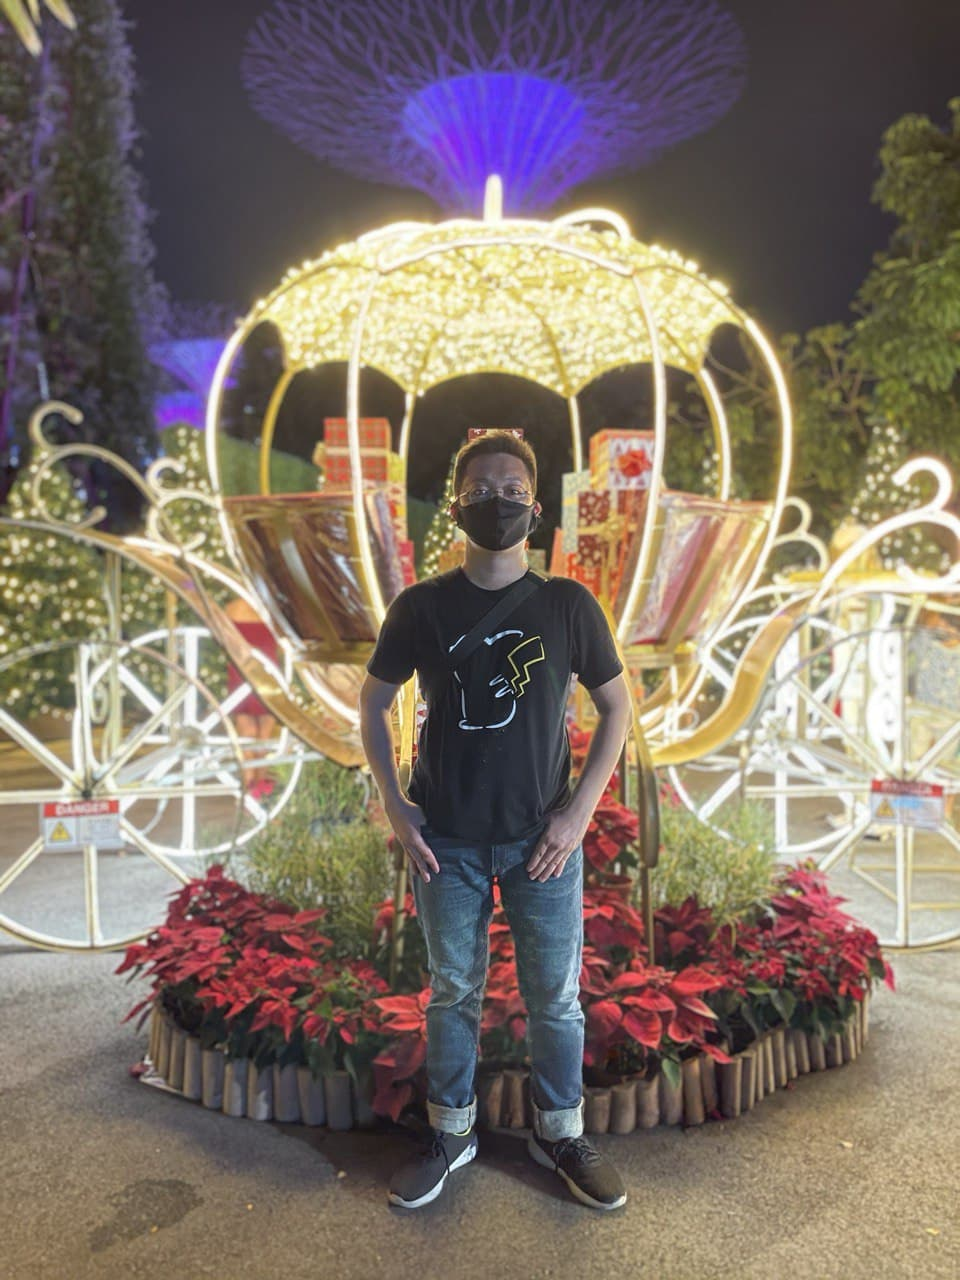
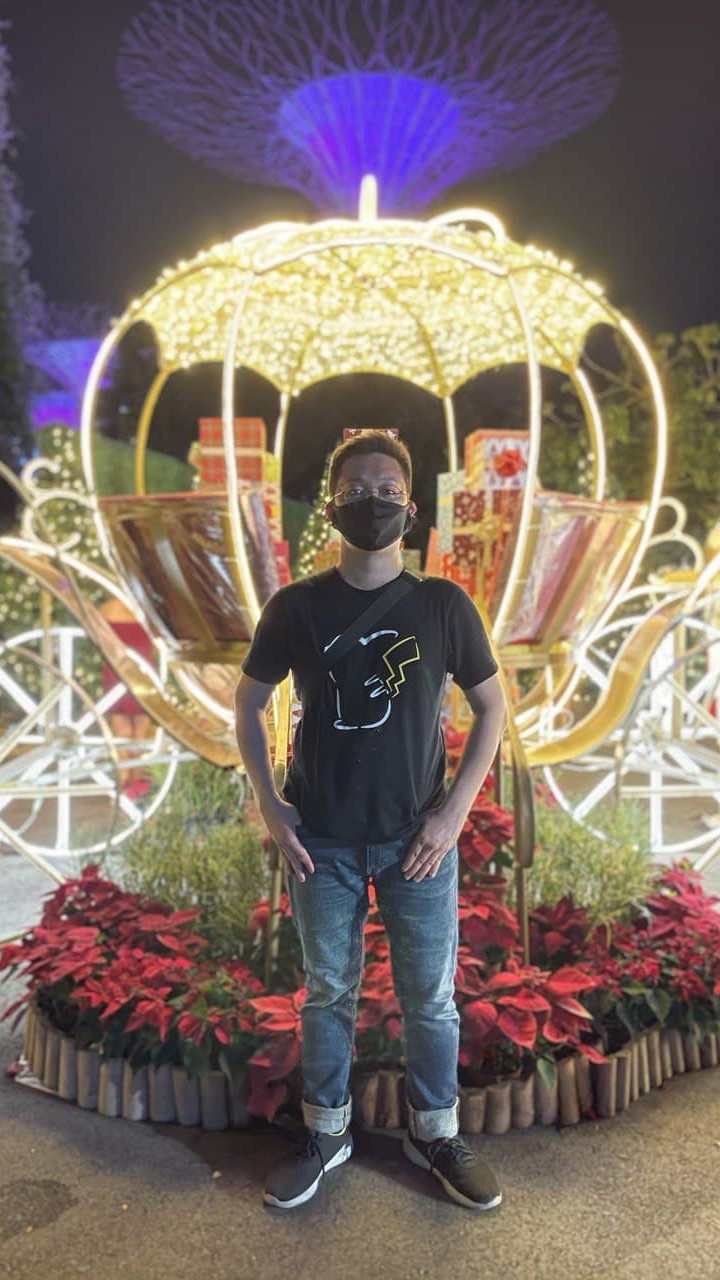
image changed

diff --git a/main.html b/main.html
@@ -95,7 +95,7 @@
         <!--About Me Page-->
         <section id="aboutmepage" style = "height: 100%;">
             <div class = "row">
-                <img class = "d-md-none col-6 mx-auto d-block "  src="img/profilepic.jpg" data-aos='fade-down'>
+                <img class = "d-md-none col-6 mx-auto d-block "  src="img/profilepic_1.jpg" data-aos='fade-down'>
                 <img class = "d-none d-md-block d-lg-block"  src = "img/profilepic.jpg" data-aos='fade-right'>
                 <div class = "aboutmeparagraph col-md-8 col-12 my-5" >
                     <h1 id="aboutme" class="box_1" data-aos = "zoom-in">>about_me<span class = "animated infinite fadeIn">_</span></h1>
